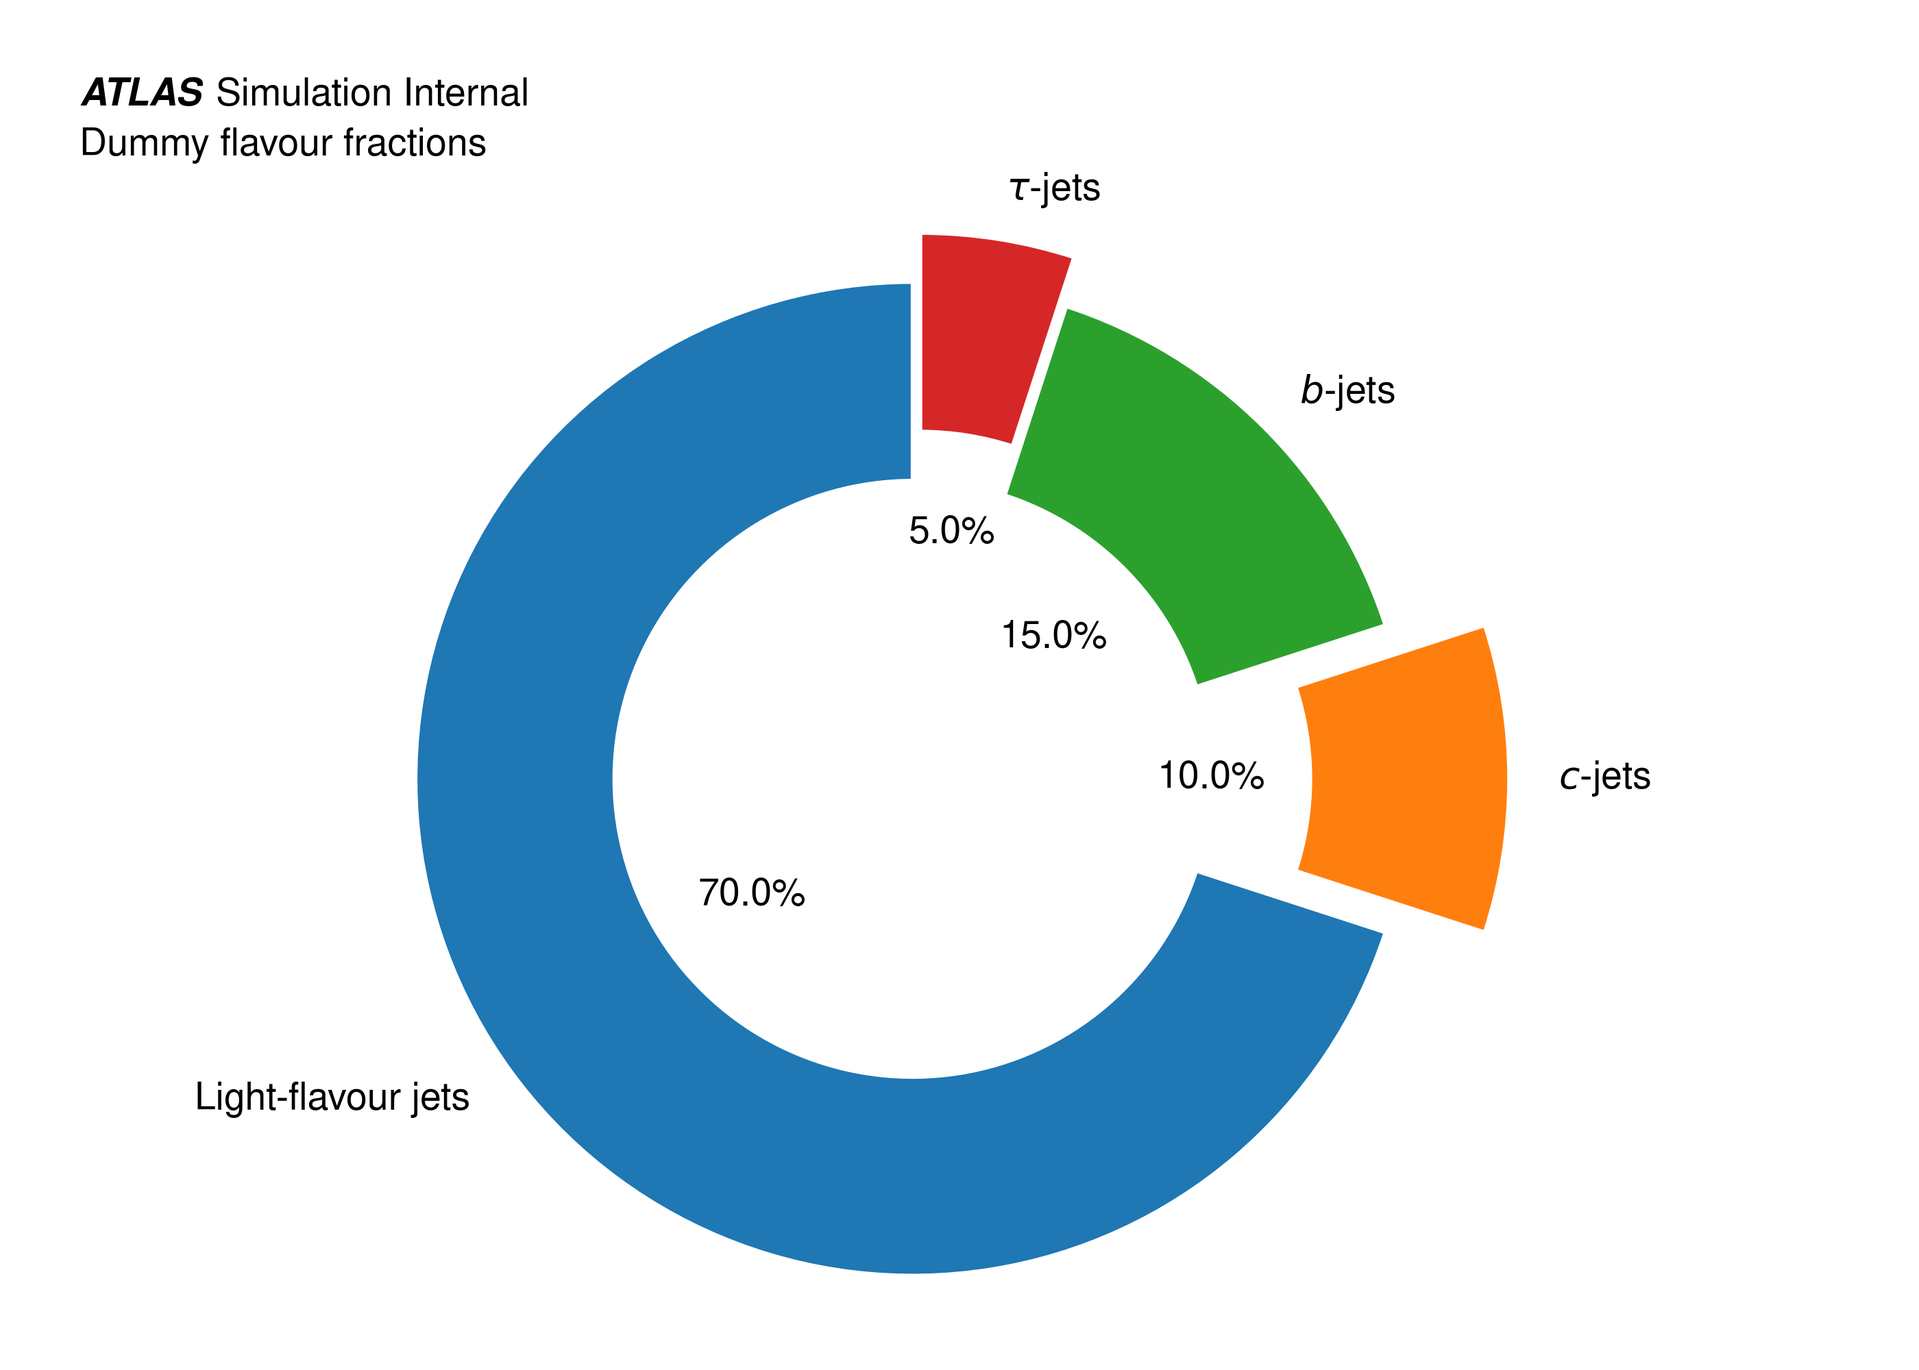
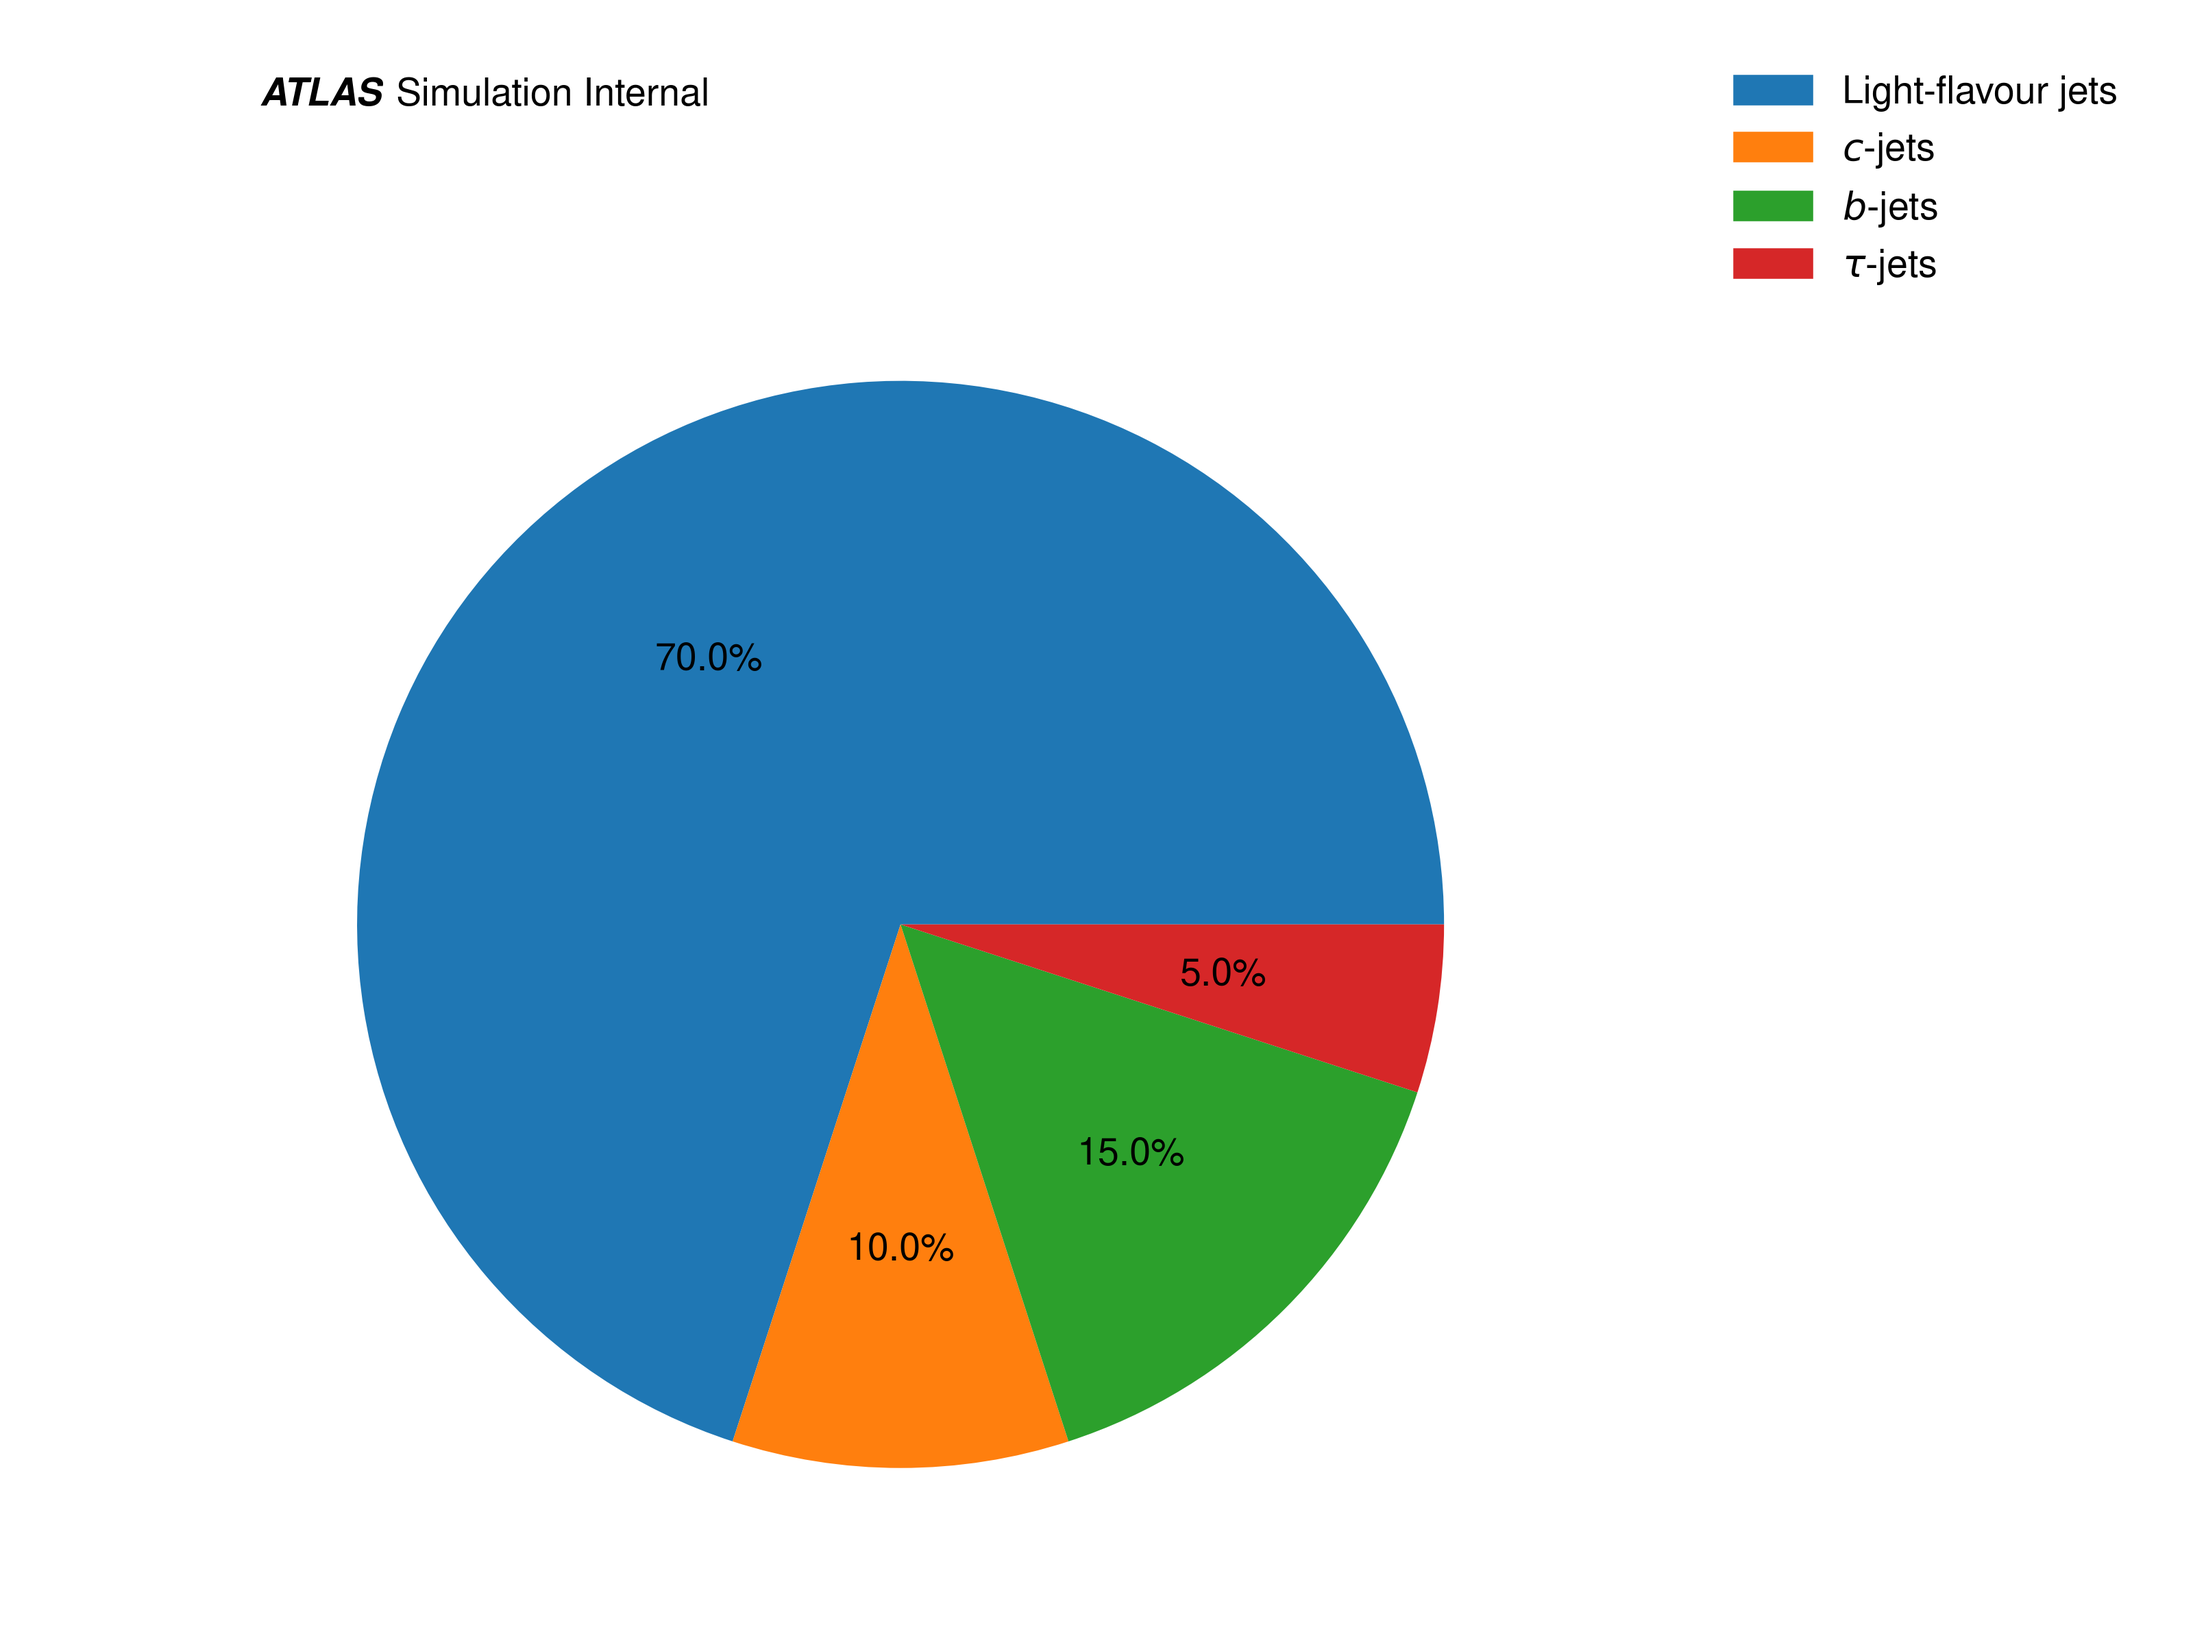
Use one two-line example for the pie plots

diff --git a/examples/plot_pie_chart.py b/examples/plot_pie_chart.py
@@ -1,13 +1,31 @@
 """Example plotting script for the puma.PiePlot class"""
 from puma.pie import PiePlot
+from puma.utils import global_config
 
 HadrTruthLabel_fracs = [70, 10, 15, 5]
 HadrTruthLabel_labels = ["Light-flavour jets", "$c$-jets", "$b$-jets", "$\\tau$-jets"]
 
-example_plot_1 = PiePlot(
+# Basic example with default values only
+example_plot_1 = PiePlot(fracs=HadrTruthLabel_fracs, labels=HadrTruthLabel_labels)
+example_plot_1.savefig("pie_example_1.png")
+
+
+# Another example with some styling
+
+# Get the flavour colours from the global config
+flav_cat = global_config["flavour_categories"]
+colours = [
+    flav_cat["ujets"]["colour"],
+    flav_cat["cjets"]["colour"],
+    flav_cat["bjets"]["colour"],
+    flav_cat["taujets"]["colour"],
+]
+
+example_plot_2 = PiePlot(
     fracs=HadrTruthLabel_fracs,
     labels=HadrTruthLabel_labels,
     draw_legend=False,
+    colours=colours,
     # have a look at the possible kwargs for matplotlib.pyplot.pie here:
     # https://matplotlib.org/stable/api/_as_gen/matplotlib.pyplot.pie.html
     mpl_pie_kwargs={
@@ -18,28 +36,6 @@ example_plot_1 = PiePlot(
         "radius": 1,
         "wedgeprops": dict(width=0.4, edgecolor="w"),
         "pctdistance": 0.4,
-    },
-    # kwargs passed to puma.PlotObject
-    atlas_second_tag="Dummy flavour fractions",
-    figsize=(7, 5),
-    ymax=1.5,
-)
-example_plot_1.savefig("pie_example_1.png")
-
-
-# Another example with other styling
-example_plot_2 = PiePlot(
-    fracs=HadrTruthLabel_fracs,
-    labels=HadrTruthLabel_labels,
-    draw_legend=True,
-    colour_scheme="blue",
-    # have a look at the possible kwargs for matplotlib.pyplot.pie here:
-    # https://matplotlib.org/stable/api/_as_gen/matplotlib.pyplot.pie.html
-    mpl_pie_kwargs={
-        "textprops": {"fontsize": 10},
-        "radius": 1,
-        "wedgeprops": dict(width=1, edgecolor="w"),
-        "pctdistance": 1.2,
     },
     # kwargs passed to puma.PlotObject
     atlas_second_tag="Dummy flavour fractions",
